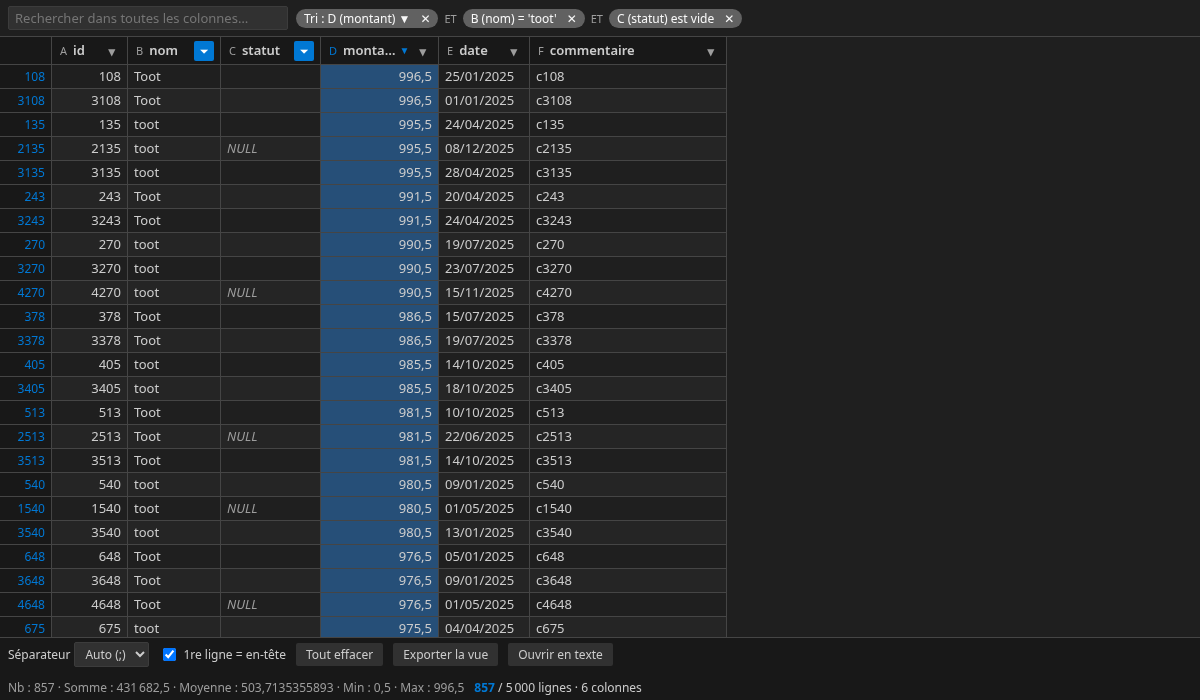
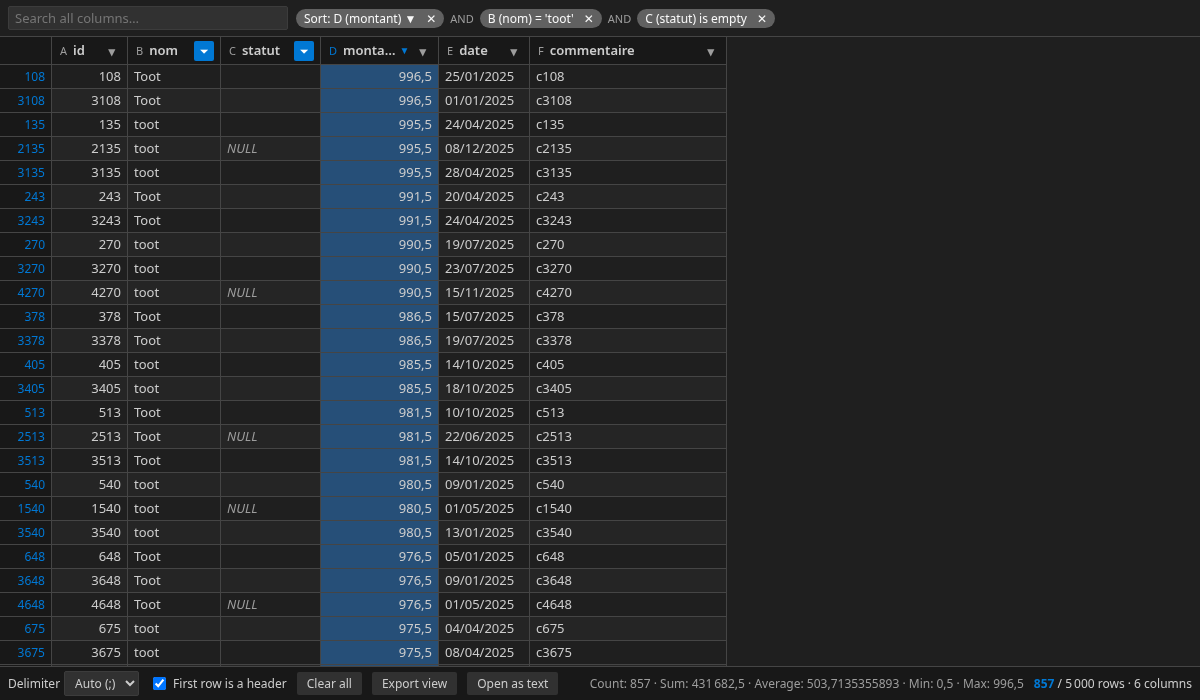
Interface en anglais

Changed region(s): [[0.0, 0.9, 0.9867, 1.0], [0.2467, 0.0, 0.6475, 0.06], [0.0308, 0.0, 0.1233, 0.03]]

diff --git a/media/main.js b/media/main.js
@@ -16,12 +16,12 @@
   const OPS = {
     eq: a => `= ${q(a)}`,
     neq: a => `≠ ${q(a)}`,
-    contains: a => `contient ${q(a)}`,
-    notcontains: a => `ne contient pas ${q(a)}`,
-    starts: a => `commence par ${q(a)}`,
-    ends: a => `finit par ${q(a)}`,
-    empty: () => 'est vide',
-    notempty: () => "n'est pas vide",
+    contains: a => `contains ${q(a)}`,
+    notcontains: a => `does not contain ${q(a)}`,
+    starts: a => `starts with ${q(a)}`,
+    ends: a => `ends with ${q(a)}`,
+    empty: () => 'is empty',
+    notempty: () => 'is not empty',
     gt: a => `> ${a}`,
     gte: a => `≥ ${a}`,
     lt: a => `< ${a}`,
@@ -77,7 +77,7 @@
   }
 
   function fmt(n) {
-    return n.toLocaleString('fr-FR', { maximumFractionDigits: 10 });
+    return n.toLocaleString(undefined, { maximumFractionDigits: 10 });
   }
 
   // ---------- Chargement ----------
@@ -208,7 +208,7 @@
     colgroup.innerHTML = `<col style="width:${rnWidth}px">` + widths.map(w => `<col style="width:${w}px">`).join('');
     table.style.width = rnWidth + widths.reduce((a, b) => a + b, 0) + 'px';
 
-    let h = '<tr><th class="rn corner" title="Tout sélectionner"></th>';
+    let h = '<tr><th class="rn corner" title="Select all"></th>';
 
     for (let c = 0; c < ncols; c++) {
       const f = filters.get(c);
@@ -216,11 +216,11 @@
       const name = headers[c];
 
       h += `<th data-c="${c}"><div class="h">`
-        + `<span class="letter" title="Sélectionner la colonne">${colLetter(c)}</span>`
-        + `<span class="name" title="${esc(name)}${name ? ' — ' : ''}cliquer pour trier">${esc(name)}</span>`
+        + `<span class="letter" title="Select column">${colLetter(c)}</span>`
+        + `<span class="name" title="${esc(name)}${name ? ' — ' : ''}click to sort">${esc(name)}</span>`
         + `<span class="sort">${s}</span>`
-        + `<button class="fbtn${f ? ' on' : ''}" title="Trier / filtrer">${f ? '⏷' : '▾'}</button>`
-        + '</div><div class="resizer" title="Glisser pour redimensionner, double-clic pour ajuster"></div></th>';
+        + `<button class="fbtn${f ? ' on' : ''}" title="Sort / filter">${f ? '⏷' : '▾'}</button>`
+        + '</div><div class="resizer" title="Drag to resize, double-click to auto-fit"></div></th>';
     }
 
     thead.innerHTML = h + '</tr>';
@@ -291,7 +291,7 @@
     }
 
     if (!view.length) {
-      h += `<tr class="empty"><td colspan="${ncols + 1}">${parsed.rows.length ? 'Aucune ligne ne correspond aux filtres.' : 'Fichier vide.'}</td></tr>`;
+      h += `<tr class="empty"><td colspan="${ncols + 1}">${parsed.rows.length ? 'No rows match the filters.' : 'Empty file.'}</td></tr>`;
     }
 
     tbody.innerHTML = h;
@@ -301,7 +301,7 @@
     const parts = [];
 
     if (sort) {
-      parts.push(`<span class="chip" data-kind="sort">Tri : ${esc(colName(sort.col))} ${sort.dir > 0 ? '▲' : '▼'}<b data-x="sort">✕</b></span>`);
+      parts.push(`<span class="chip" data-kind="sort">Sort: ${esc(colName(sort.col))} ${sort.dir > 0 ? '▲' : '▼'}<b data-x="sort">✕</b></span>`);
     }
 
     for (const [c, f] of filters) {
@@ -312,24 +312,24 @@
       }
 
       if (f.values) {
-        conds.push(f.values.size === 1 ? `= ${q([...f.values][0])}` : `∈ ${f.values.size} valeurs`);
+        conds.push(f.values.size === 1 ? `= ${q([...f.values][0])}` : `∈ ${f.values.size} values`);
       }
 
-      parts.push(`<span class="chip" data-c="${c}">${esc(colName(c))} ${esc(conds.join(' et '))}<b data-x="${c}">✕</b></span>`);
+      parts.push(`<span class="chip" data-c="${c}">${esc(colName(c))} ${esc(conds.join(' and '))}<b data-x="${c}">✕</b></span>`);
     }
 
     if (search) {
-      parts.push(`<span class="chip">Recherche ${esc(q(search))}<b data-x="search">✕</b></span>`);
+      parts.push(`<span class="chip">Search ${esc(q(search))}<b data-x="search">✕</b></span>`);
     }
 
-    $('chips').innerHTML = parts.join('<span class="and">ET</span>');
+    $('chips').innerHTML = parts.join('<span class="and">AND</span>');
   }
 
   function renderCounts(total) {
     const el = $('counts');
     const filtered = view.length !== total;
     el.classList.toggle('filtered', filtered);
-    el.innerHTML = `<b>${fmt(view.length)}</b> / ${fmt(total)} lignes · ${ncols} colonnes`;
+    el.innerHTML = `<b>${fmt(view.length)}</b> / ${fmt(total)} rows · ${ncols} columns`;
   }
 
   function renderSelStats() {
@@ -342,7 +342,7 @@
     }
 
     if ((s.r1 - s.r0 + 1) * (s.c1 - s.c0 + 1) > 3e6) {
-      el.textContent = 'Sélection trop grande pour les statistiques';
+      el.textContent = 'Selection too large for statistics';
       return;
     }
 
@@ -374,10 +374,10 @@
       }
     }
 
-    const parts = [`Nb : ${fmt(count)}`];
+    const parts = [`Count: ${fmt(count)}`];
 
     if (nums) {
-      parts.push(`Somme : ${fmt(sum)}`, `Moyenne : ${fmt(sum / nums)}`, `Min : ${fmt(min)}`, `Max : ${fmt(max)}`);
+      parts.push(`Sum: ${fmt(sum)}`, `Average: ${fmt(sum / nums)}`, `Min: ${fmt(min)}`, `Max: ${fmt(max)}`);
     }
 
     el.textContent = parts.join('  ·  ');
@@ -853,15 +853,15 @@
 
     let h = shown.map((v, i) =>
       `<label><input type="checkbox" data-i="${i}"${checked.has(v) ? ' checked' : ''}>`
-      + `<span class="v">${v === '' ? '<i>(vide)</i>' : esc(v)}</span>`
+      + `<span class="v">${v === '' ? '<i>(empty)</i>' : esc(v)}</span>`
       + `<span class="cnt">${fmt(counts.get(v))}</span></label>`).join('');
 
     if (visible.length > shown.length) {
-      h += `<div class="more">… ${fmt(visible.length - shown.length)} autres valeurs, affinez la recherche</div>`;
+      h += `<div class="more">… ${fmt(visible.length - shown.length)} more values, refine your search</div>`;
     }
 
     if (!visible.length) {
-      h = '<div class="more">Aucune valeur</div>';
+      h = '<div class="more">No values</div>';
     }
 
     $('mvals').innerHTML = h;

diff --git a/extension.js b/extension.js
@@ -62,8 +62,8 @@ class CsvEditorProvider {
       }
 
       const filtered = counts.shown !== counts.total;
-      this.status.text = `$(table) ${counts.shown} / ${counts.total} lignes`;
-      this.status.tooltip = `${counts.cols} colonnes${filtered ? ' — filtre actif' : ''}`;
+      this.status.text = `$(table) ${counts.shown} / ${counts.total} rows`;
+      this.status.tooltip = `${counts.cols} columns${filtered ? ' — filter active' : ''}`;
       this.status.show();
     };
 
@@ -118,13 +118,13 @@ class CsvEditorProvider {
         case 'export': {
           const parsed = path.parse(document.uri.fsPath);
           const target = await vscode.window.showSaveDialog({
-            defaultUri: vscode.Uri.file(path.join(parsed.dir, `${parsed.name}-vue${parsed.ext}`)),
+            defaultUri: vscode.Uri.file(path.join(parsed.dir, `${parsed.name}-view${parsed.ext}`)),
             filters: { CSV: ['csv', 'tsv', 'txt'] },
           });
 
           if (target) {
             await vscode.workspace.fs.writeFile(target, Buffer.from(msg.text, 'utf8'));
-            vscode.window.showInformationMessage(`Vue exportée : ${target.fsPath}`);
+            vscode.window.showInformationMessage(`View exported: ${target.fsPath}`);
           }
 
           break;
@@ -142,7 +142,7 @@ class CsvEditorProvider {
     const uri = f => webview.asWebviewUri(vscode.Uri.joinPath(media, f));
 
     return `<!DOCTYPE html>
-<html lang="fr">
+<html lang="en">
 <head>
 <meta charset="UTF-8">
 <meta http-equiv="Content-Security-Policy" content="default-src 'none'; style-src ${webview.cspSource} 'unsafe-inline'; script-src 'nonce-${nonce}';">
@@ -151,7 +151,7 @@ class CsvEditorProvider {
 </head>
 <body>
 <div id="toolbar">
-  <input id="search" type="search" placeholder="Rechercher dans toutes les colonnes…">
+  <input id="search" type="search" placeholder="Search all columns…">
   <div id="chips"></div>
 </div>
 <div id="grid" tabindex="0">
@@ -160,7 +160,7 @@ class CsvEditorProvider {
 </div>
 <div id="footer">
   <div class="left">
-    <label>Séparateur
+    <label>Delimiter
       <select id="delim">
         <option value="auto">Auto</option>
         <option value=",">,</option>
@@ -169,10 +169,10 @@ class CsvEditorProvider {
         <option value="|">|</option>
       </select>
     </label>
-    <label><input type="checkbox" id="hdr" checked> 1re ligne = en-tête</label>
-    <button id="clearAll" title="Retirer tous les filtres, la recherche et le tri">Tout effacer</button>
-    <button id="export" title="Enregistrer les lignes affichées (filtrées et triées) dans un nouveau fichier">Exporter la vue</button>
-    <button id="openText">Ouvrir en texte</button>
+    <label><input type="checkbox" id="hdr" checked> First row is a header</label>
+    <button id="clearAll" title="Remove all filters, the search and the sort">Clear all</button>
+    <button id="export" title="Save the displayed rows (filtered and sorted) to a new file">Export view</button>
+    <button id="openText">Open as text</button>
   </div>
   <div class="right">
     <span id="selstats"></span>
@@ -181,36 +181,36 @@ class CsvEditorProvider {
 </div>
 <div id="menu" hidden>
   <div class="mtitle" id="mtitle"></div>
-  <button class="mitem" data-sort="1">↑ Trier du plus petit au plus grand (A → Z)</button>
-  <button class="mitem" data-sort="-1">↓ Trier du plus grand au plus petit (Z → A)</button>
-  <button class="mitem" data-sort="0">Retirer le tri</button>
+  <button class="mitem" data-sort="1">↑ Sort smallest to largest (A → Z)</button>
+  <button class="mitem" data-sort="-1">↓ Sort largest to smallest (Z → A)</button>
+  <button class="mitem" data-sort="0">Remove sort</button>
   <hr>
   <div class="mlabel">Condition</div>
   <div class="mrow">
     <select id="mop">
-      <option value="">(aucune)</option>
-      <option value="eq">est égal à</option>
-      <option value="neq">est différent de</option>
-      <option value="contains">contient</option>
-      <option value="notcontains">ne contient pas</option>
-      <option value="starts">commence par</option>
-      <option value="ends">se termine par</option>
-      <option value="empty">est vide / null</option>
-      <option value="notempty">n'est pas vide</option>
+      <option value="">(none)</option>
+      <option value="eq">equals</option>
+      <option value="neq">does not equal</option>
+      <option value="contains">contains</option>
+      <option value="notcontains">does not contain</option>
+      <option value="starts">starts with</option>
+      <option value="ends">ends with</option>
+      <option value="empty">is empty / null</option>
+      <option value="notempty">is not empty</option>
       <option value="gt">&gt;</option>
       <option value="gte">≥</option>
       <option value="lt">&lt;</option>
       <option value="lte">≤</option>
     </select>
-    <input id="marg" placeholder="valeur">
+    <input id="marg" placeholder="value">
   </div>
   <hr>
-  <div class="mlabel">Valeurs</div>
-  <input id="msearch" type="search" placeholder="Rechercher une valeur…">
-  <label class="mall"><input type="checkbox" id="mall"> (Tout sélectionner)</label>
+  <div class="mlabel">Values</div>
+  <input id="msearch" type="search" placeholder="Search values…">
+  <label class="mall"><input type="checkbox" id="mall"> (Select all)</label>
   <div id="mvals"></div>
   <div class="mactions">
-    <button id="mclear" class="secondary">Effacer le filtre</button>
+    <button id="mclear" class="secondary">Clear filter</button>
     <button id="mok">OK</button>
   </div>
 </div>

diff --git a/README.md b/README.md
@@ -4,8 +4,6 @@ A VS Code extension that opens `.csv` / `.tsv` files in a spreadsheet-like grid,
 
 ![Preview: sorting and filtering a CSV file](images/screenshot.png)
 
-> The interface is in French.
-
 ## Features
 
 - **Grid**: frozen header and row numbers, column letters (A, B, C…), right-aligned numbers, greyed-out `NULL` values, virtual scrolling for large files.
